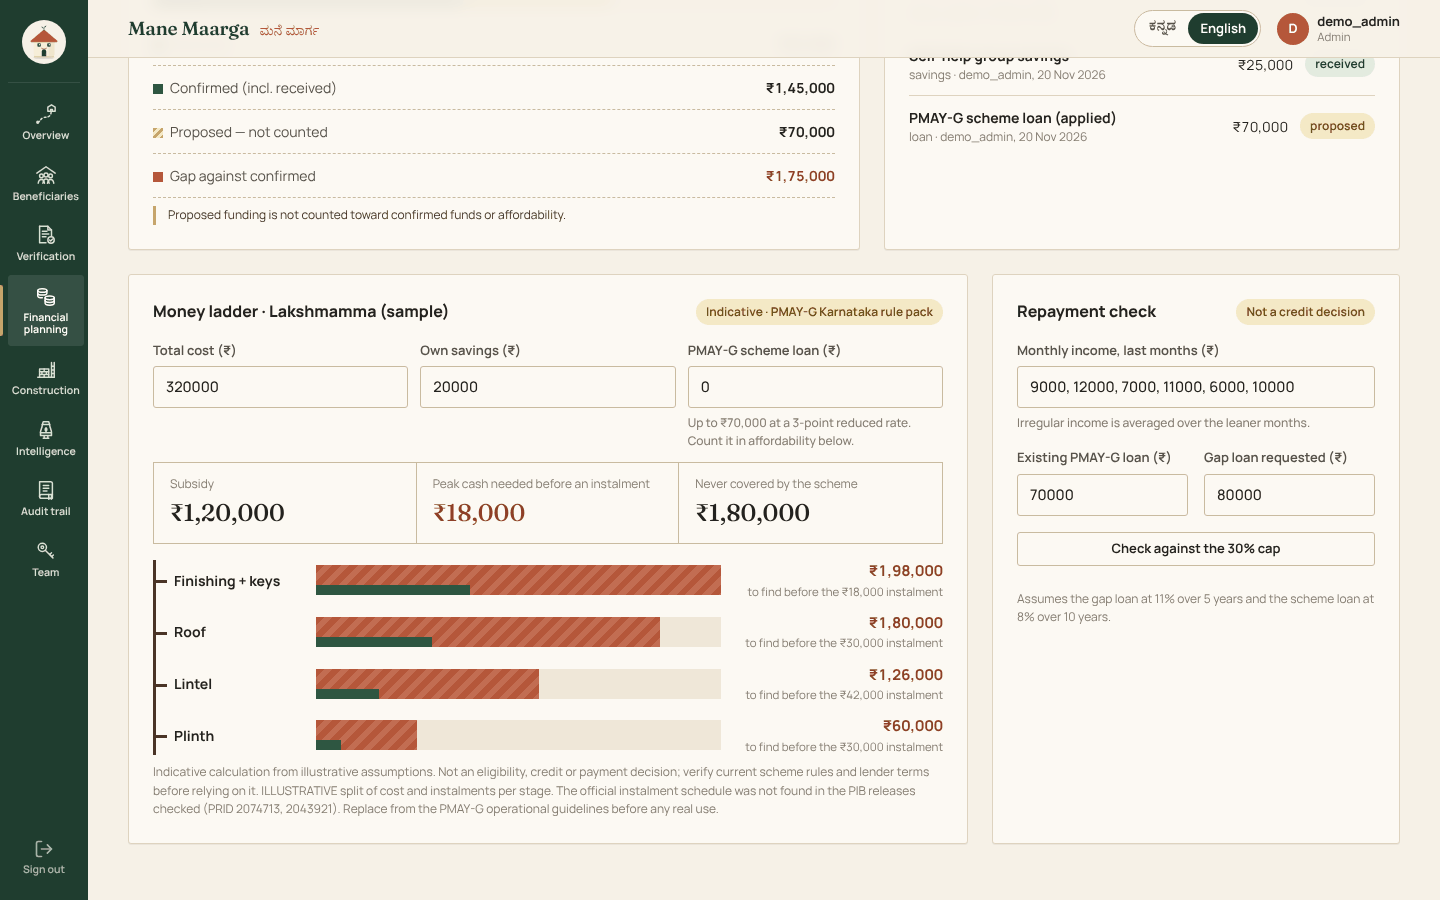
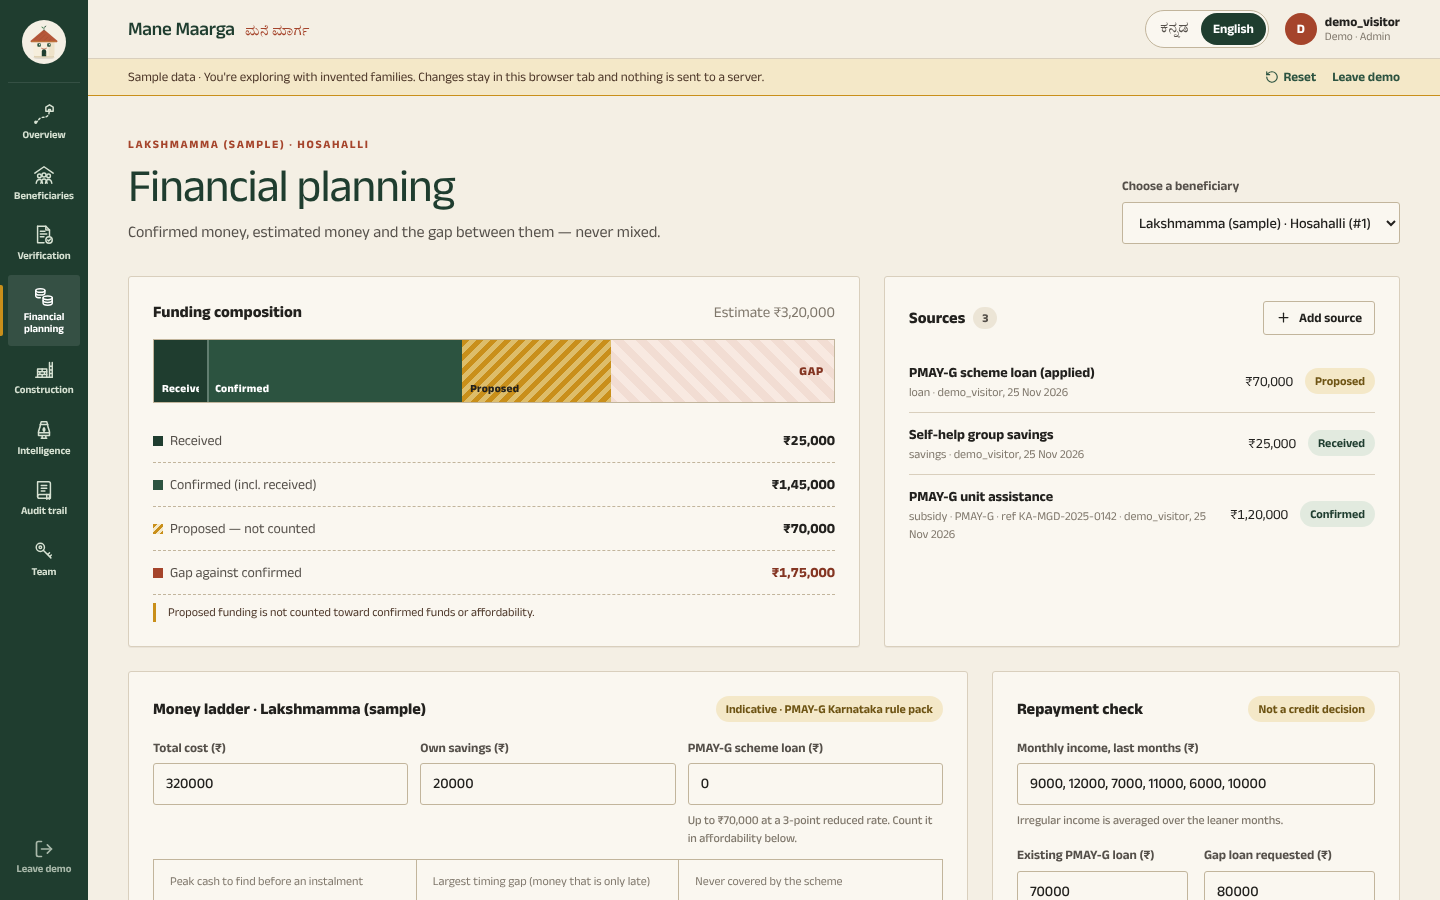
docs: README for cited rules, agent runtime and new screenshots; changelog

diff --git a/README.md b/README.md
@@ -33,7 +33,7 @@ Mane Maarga helps case workers take rural families in Karnataka from their first
 
 - **Live preview:** open [mane-maarga.vercel.app](https://mane-maarga.vercel.app), choose **Access the platform**, then **Explore with sample data**. No server is needed: a clearly labelled demo mode runs the workspace in your browser with invented “(sample)” families, using the same rules as the API (money ladder, 30% cap, no double counting). Nothing leaves the browser tab.
 - **Full stack:** to sign in against the real API with document text extraction, [run it locally](#run-it-locally).
-- **What to explore:** add a family → upload a land record → compare the extracted fields with the case → check the money ladder → review the case insights.
+- **What to explore:** add a family → upload a land record → compare the extracted fields with the case → check the money ladder → open **Intelligence** and choose **Run the agent** to watch it plan, call tools and pass the citation guard.
 
 <div align="center">
 <img src="docs/assets/demo.gif" width="880" alt="Screen recording: the overview, the beneficiary list, a case file, the verification desk flagging a village-name mismatch, the financial plan and money ladder, and the case analysis" />
@@ -67,6 +67,13 @@ Every rule and rupee comes from a dated, cited rule pack. [PROBLEM.md](PROBLEM.m
 </tr>
 </table>
 
+### The agent, step by step
+
+<div align="center">
+<img src="docs/assets/screenshots/agent-run.png" width="880" alt="Agent run trace: PLAN, four tool calls, a citation-guard CHECK and the answer in English and Kannada with a stamped clause ID" />
+<br /><sub>Every rupee in the answer came from a tool result; the stamped clause ID links the ₹1,20,000 to its source. Try <code>make demo</code> for the recovery and blocked runs.</sub>
+</div>
+
 ## What works today
 
 | Area | What is built |
@@ -75,9 +82,12 @@ Every rule and rupee comes from a dated, cited rule pack. [PROBLEM.md](PROBLEM.m
 | **Document verification** | PDF/PNG/JPEG upload (10 MB, file signatures checked), authenticated preview, text extraction with `pypdf` and Tesseract (English + Kannada), field-by-field comparison with the case, and a verify / reject / request-correction decision. |
 | **Scheme-aware finance** | Funding sources marked proposed, confirmed, received or rejected. Duplicate confirmed scheme references are blocked. A dated PMAY-G Karnataka rule pack drives the **money ladder**, and a **30% repayment cap** counts every existing loan, including the PMAY-G scheme loan. |
 | **Construction tracking** | A stage plan costed from the estimate, stage status, and photo evidence held for review. The house drawing fills in as stages are verified. |
-| **Decision support** | Rule-based checks of documents, finance, construction and blockers. Each recommendation lists its evidence and requires human approval. Also included: conversational intake in Kannada, English and Telugu, scheme reference links, a budget estimate and follow-up tasks. |
+| **Cited rules** | A dated Karnataka PMAY-G rule pack: 17 clauses, each with an ID, English and Kannada text, and its source (PIB, Lok Sabha, CAG). Eligibility and the 8 exclusion rules run in code; a missing fact gives *needs information*, never a guess. `make rules-lint` rejects any clause without a source or Kannada text. See [PROBLEM.md](PROBLEM.md). |
+| **Agent runtime** | A PLAN → ACT → CHECK → RECOVER → ASK → DONE loop over 11 typed, audited tools. The model chooses; the server runs the tool. A citation guard withholds any answer whose figures or clauses can't be traced. Runs on a scripted mock with no key, or on Lyzr Agent Studio. |
+| **Approval gate** | Agents can only *request* a status change, offer or payment. Only an administrator's decision changes a case, and both steps are audited. |
+| **Decision support** | Rule-based checks of documents, finance, construction and blockers, each with its evidence. Also: conversational intake in Kannada, English and Telugu, scheme reference links, a budget estimate and follow-up tasks. |
 | **Accountability** | JWT sessions with admin, operator and viewer roles, an audit trail of every sensitive action, rate-limited sign-in, and security headers with request IDs. |
-| **Accessibility** | A full Kannada/English interface using self-hosted Noto Kannada fonts, keyboard navigation and visible focus, status shown by icon and text (never colour alone), reduced-motion support, and phone layouts. |
+| **Accessibility** | A full Kannada/English interface (self-hosted Anek and Tiro Kannada fonts, Kannada line height 1.7), a high-contrast sunlight mode, keyboard navigation and visible focus, status shown by icon and text (never colour alone), reduced-motion support, and phone layouts. |
 
 ## How a family moves through it
 
@@ -102,12 +112,17 @@ flowchart LR
 
 ```mermaid
 flowchart LR
-    UI["React + TS<br/>Kannada / English"] -- "REST · JWT" --> API["FastAPI<br/>cases · documents · finance engine · audit"]
+    UI["React + TS<br/>Kannada / English"] -- "REST · JWT" --> API["FastAPI<br/>cases · documents · audit"]
+    API --> ENG["Engine<br/>rule packs · ladder · 30% cap"]
+    API --> RT["Agent runtime<br/>tools · citation guard"]
+    RT -- "one JSON decision per turn" --> LLM["Mock script or Lyzr"]
+    RT --> ENG
+    RT --> GATE["Approval requests<br/>(admin decides)"]
     API --> DB[("PostgreSQL")]
     API --> OCR["pypdf + Tesseract"]
 ```
 
-The finance engine (`backend/app/engine`) is pure Python with no I/O. It reads a dated rule pack such as `karnataka_pmayg_2024_25.json`, so a change in scheme rules is a data change with a source citation, not a code change.
+The engine (`backend/app/engine`) is pure Python with no I/O. It reads dated rule packs at `rules_data/<STATE>/<scheme>/<year>.json`, so a change in scheme rules is a data change with a source citation, not a code change. The model never computes money or eligibility: it picks a tool, the server runs it, and the guard checks the answer. Details: [ARCHITECTURE.md](ARCHITECTURE.md) and the [ADRs](docs/adr/).
 
 ## Benchmark: MaargaDocBench
 
@@ -138,11 +153,11 @@ What these numbers do and don't say:
 
 Mane Maarga works with vulnerable families and public money, so the line between help and decision is part of the design:
 
-- **People decide.** Suggestions never approve eligibility, credit, payment or a status change. The approval gate is part of every analysis response.
+- **People decide.** Agents can only create a pending approval request; eligibility, credit, payment and status changes need an administrator. A test calls every tool and proves none changes status or money.
 - **Extraction is unverified until a reviewer confirms it.** Extracted fields are labelled as such, mismatches are flagged, and only a person can mark a document verified.
 - **Money rules are transparent.** Proposed funding is never counted as confirmed. Existing loans are liabilities, not funding. The ladder's stage split is marked illustrative until it's checked against the PMAY-G guidelines.
 - **Suggestions carry their evidence.** Each recommended action names the documents or figures behind it and the check that produced it.
-- **No external model is connected today.** Case analysis is deterministic and rule-based, and the UI says so.
+- **The model explains; code decides.** With Lyzr connected, the model only chooses tools and writes the explanation. A citation guard withholds any answer with a figure not from a tool result or a clause that doesn't exist, and every run is stored step by step. Without keys, a labelled scripted mock runs instead.
 - **Sensitive actions are auditable,** and consent can be withdrawn at any time.
 
 ## Security and privacy
@@ -191,10 +206,13 @@ Key settings in `.env` (see `.env.example`):
 | `CORS_ORIGINS` | The web app's origin(s), comma-separated. |
 | `VITE_API_BASE_URL` | The API URL the frontend calls. |
 | `MANE_MAARGA_BOOTSTRAP_ENABLED` | Allows first-administrator setup (off by default in production). |
+| `MANE_MAARGA_AGENT_PROVIDER` | `mock` (default, no key) or `lyzr`. |
+| `MANE_MAARGA_LYZR_API_KEY`, `MANE_MAARGA_LYZR_AGENT_ID` | Lyzr Agent Studio credentials, used only when the provider is `lyzr`. |
+| `MANE_MAARGA_SERVICE_TOKEN` | Opens `/api/tools/*` to machine callers; unset keeps them closed. |
 
 To stop everything: `docker compose down`. Your database and uploads stay in Docker volumes. Removing them (`docker compose down -v`) **permanently deletes all records**.
 
-**Tests:** `docker compose exec api python -m pytest -q`. There are 56 backend tests covering auth, roles, uploads, extraction, funding rules, the money ladder and affordability. CI runs them, plus a frontend build, on every push.
+**Tests:** `make test` (or `docker compose exec api python -m pytest -q`). There are 97 backend tests covering auth, roles, uploads, extraction, funding rules, the money ladder, affordability, every eligibility exclusion, every tool, and the agent runtime. CI also runs ruff, mypy, `rules-lint`, the benchmark, ESLint, a style lint (no hype words, emoji or gradients; every string in Kannada) and the frontend build on every push. `make demo` prints agent traces without any key.
 
 Production Compose, operations and the release checklist are in [`docs/`](docs/).
 
@@ -204,22 +222,27 @@ Production Compose, operations and the release checklist are in [`docs/`](docs/)
 mane-maarga/
 ├── backend/
 │   ├── app/
-│   │   ├── main.py              # API: auth, cases, documents, funding, stages, intelligence
-│   │   ├── engine/              # finance engine + dated rule packs (money ladder, affordability)
-│   │   ├── agents.py            # rule-based case analysis with an approval gate
+│   │   ├── main.py              # app factory (≈40 lines)
+│   │   ├── api/                 # one router per area, incl. engine, tools, agent
+│   │   ├── core/                # config, security, audit, observability
+│   │   ├── engine/              # rule packs (cited, dated), eligibility, money ladder, affordability
+│   │   ├── agents/              # tools, runtime, providers (mock, Lyzr), citation guard, prompts
 │   │   └── document_ai.py       # text extraction and case comparison
 │   ├── alembic/                 # migrations
 │   ├── benchmarks/              # MaargaDocBench (synthetic document benchmark)
-│   └── tests/                   # 56 tests
+│   ├── scripts/                 # rules_lint.py, agent_demo.py
+│   └── tests/                   # 97 tests
 ├── frontend/
 │   ├── src/
 │   │   ├── pages/               # Overview, Beneficiaries, CaseFile, Verification, Finance, …
-│   │   ├── components/          # Mascot, house and village drawings, Shell, shared UI
+│   │   ├── components/          # Mascot, drawings, Shell, ledger kit (LedgerTable, Stamp, RedPen, InkRung), agent trace
 │   │   └── lib/                 # API client, i18n (Kannada/English), formatting
 │   ├── public/images/mascot/    # mascot SVGs (exported from the React component)
-│   └── scripts/export-mascot.mjs
+│   └── scripts/                 # export-mascot, sync-rules, anti-ai-lint
 ├── scripts/                     # seed_demo.py, backup.sh
-├── docs/                        # deployment, operations, release checklist, README assets
+├── docs/                        # ADRs, deployment, operations, release checklist, README assets
+├── PROBLEM.md                   # problem → evidence → feature → where to see it
+├── ARCHITECTURE.md
 ├── docker-compose.yml
 └── docker-compose.prod.yml
 ```
@@ -234,11 +257,11 @@ mane-maarga/
 - [x] Construction stages with photo evidence
 - [x] Kannada / English interface
 - [ ] Replace the illustrative stage split with the official PMAY-G instalment schedule
-- [ ] Scheme eligibility rules with citations, reviewed by a person
+- [x] Scheme eligibility and exclusion rules with clause-level citations (Kannada review pending)
 - [x] MaargaDocBench v0: synthetic document benchmark with planted errors
 - [ ] Kannada-aware name matcher (cut the variant false-alarm rate)
 - [ ] Indic OCR for Kannada land records (beyond Tesseract)
-- [ ] Lyzr agent integration behind the existing approval gate
+- [x] Agent runtime with Lyzr provider, citation guard and server-side approval gate
 - [ ] Bhashini speech for Kannada voice intake (browser speech is used today, labelled beta)
 - [x] In-browser demo mode for the hosted preview
 - [ ] Hosted API for the live preview

diff --git a/CHANGELOG.md b/CHANGELOG.md
@@ -2,6 +2,14 @@
 
 Dates are build days of the Mane Maarga Master Plan v2. Each line names what changed and how it was checked.
 
+## Site · 25 Nov 2026 · Ink, Lime and Laterite
+- Fonts: Anek Latin and Anek Kannada for the interface, Tiro Kannada for formal Kannada, IBM Plex Mono for figures and clause IDs (Fraunces, Manrope and Noto removed).
+- Semantic colour tokens (lime, charcoal, laterite, neem, stamp, redpen, turmeric), a 13–64 px type scale, Kannada line height 1.7, and a high-contrast sunlight mode. Old token names stay as aliases.
+- Ledger kit: `LedgerTable`, `Stamp`, `RedPen`, `Footnote`, `InkRung`; dev-only reference sheet at `#/kit`. The money ladder now stamps the clauses behind its amounts.
+- Agent run panel in Intelligence (also in browser demo mode) showing each step and the guarded answer in English and Kannada.
+- `npm run lint:style` in CI: no hype words, emoji, smooth gradients, glass blur or sparkles icon, and every English string has Kannada. Removed the blur effects and shimmer it found.
+- `lib/money.ts` formatINR with Indian grouping; README screenshots retaken.
+
 ## Day 4 · 25 Nov 2026 · The agent loop
 - `app/agents/runtime.py`: PLAN, ACT, CHECK, RECOVER, ASK, DONE, at most 12 steps. The model returns one JSON decision per turn; the server runs every tool.
 - Providers: `mock` (YAML scripts, figures filled only from tool results) and `lyzr` (Lyzr Agent Studio inference API, 2 retries). Unconfigured Lyzr gives a clear 400.
